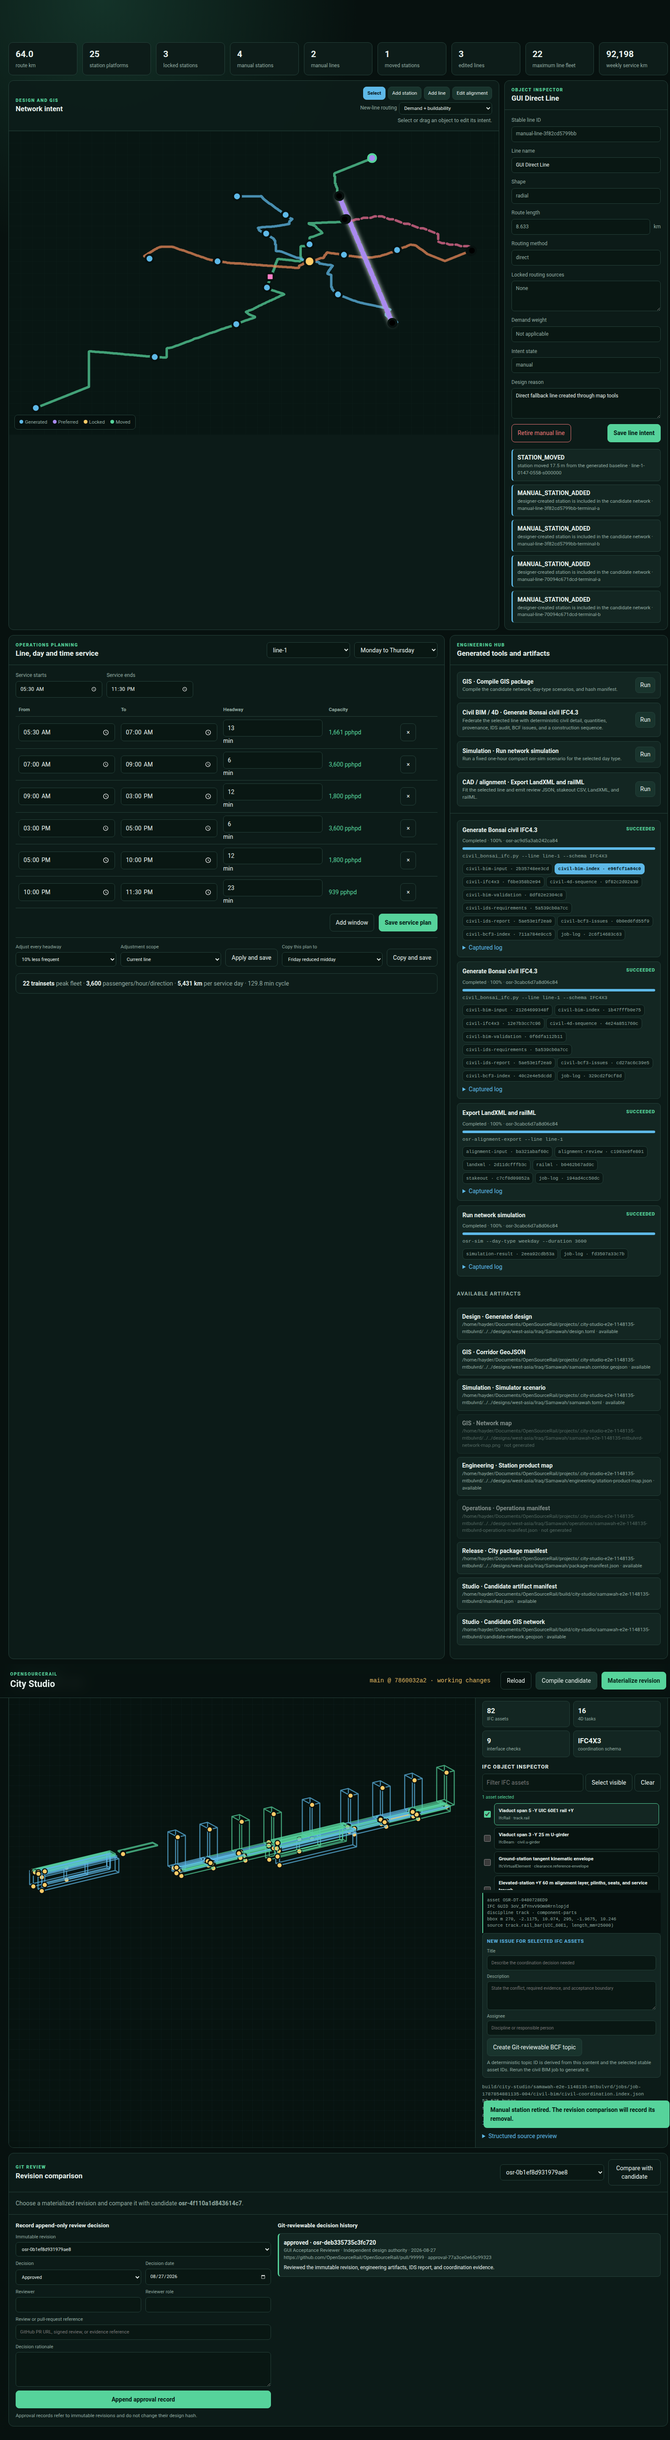
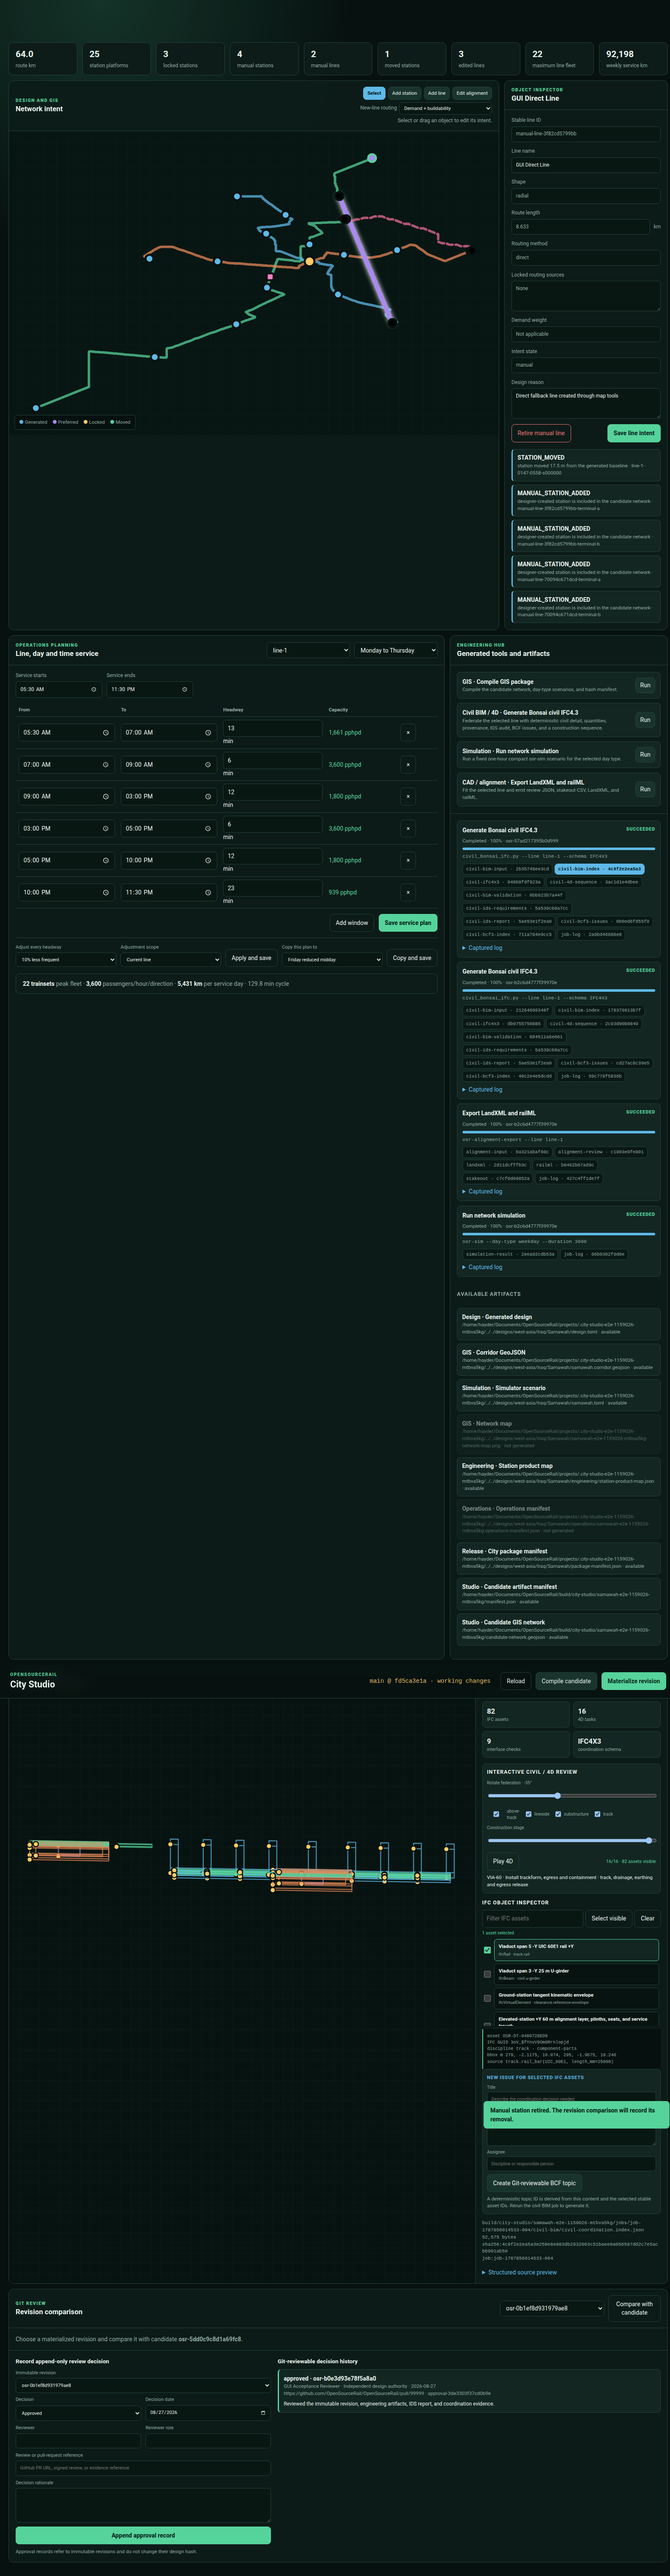
interactive review

diff --git a/crates/osr-city-studio/web/app.js b/crates/osr-city-studio/web/app.js
@@ -81,6 +81,9 @@ let jobView = { adapters: [], jobs: [] };
 let jobPollTimer = null;
 let selectedArtifactPreview = null;
 let selectedCoordinationAssetIds = new Set();
+let selectedCivilSequence = null;
+let civilPlaybackTimer = null;
+let civilReviewState = { angle_deg: -35, stage: 0, disciplines: new Set() };
 let operationBusy = false;
 const lineColours = ["#56d39b", "#5eb9e8", "#e88859", "#a98aef", "#e96d95"];
 
@@ -823,7 +826,22 @@ async function openJobArtifact(jobId, index, shouldScroll) {
       || selectedArtifactPreview.job_id !== nextPreview.job_id
       || selectedArtifactPreview.artifact_index !== nextPreview.artifact_index;
     selectedArtifactPreview = nextPreview;
-    if (changed) selectedCoordinationAssetIds.clear();
+    if (changed) {
+      selectedCoordinationAssetIds.clear();
+      stopCivilPlayback();
+      selectedCivilSequence = null;
+      if (nextPreview.format === "json" && nextPreview.content.schema === "org.opensourcerail.bonsai-civil-ifc.v1") {
+        const job = jobView.jobs.find((item) => item.id === jobId);
+        const sequenceIndex = job?.artifacts.findIndex((item) => item.kind === "civil-4d-sequence") ?? -1;
+        if (sequenceIndex >= 0) selectedCivilSequence = await api.jobArtifact(jobId, sequenceIndex);
+        const disciplines = Object.keys(nextPreview.content.summary?.disciplines || {});
+        civilReviewState = {
+          angle_deg: -35,
+          stage: selectedCivilSequence?.content?.tasks?.length || 0,
+          disciplines: new Set(disciplines),
+        };
+      }
+    }
     renderJobs();
     renderArtifactViewer();
     if (shouldScroll) {
@@ -846,6 +864,7 @@ function renderArtifactViewer() {
     $("#artifact-metrics").replaceChildren();
     $("#artifact-objects").replaceChildren();
     $("#artifact-objects").hidden = true;
+    $("#civil-review-controls").hidden = true;
     $("#artifact-provenance").textContent = "";
     $("#artifact-source").hidden = true;
     return;
@@ -860,6 +879,7 @@ function renderArtifactViewer() {
   $("#artifact-metrics").innerHTML = metrics.map(([value, label]) =>
     `<div class="artifact-metric"><strong>${escapeHtml(value)}</strong><span>${escapeHtml(label)}</span></div>`
   ).join("");
+  renderCivilReviewControls(preview);
   renderArtifactObjects(preview);
   $("#artifact-provenance").textContent = `${preview.artifact.path}\n${preview.artifact.size_bytes.toLocaleString()} bytes\nsha256:${preview.artifact.sha256}\njob:${preview.job_id}`;
   const source = typeof preview.content === "string"
@@ -870,6 +890,93 @@ function renderArtifactViewer() {
     ? `${source.slice(0, maximum)}\n\n… browser source preview limited to ${maximum.toLocaleString()} characters`
     : source;
   $("#artifact-source").hidden = false;
+}
+
+function isCivilObjectIndex(preview = selectedArtifactPreview) {
+  return preview?.format === "json"
+    && preview.content?.schema === "org.opensourcerail.bonsai-civil-ifc.v1";
+}
+
+function civilStageAssetIds() {
+  const tasks = selectedCivilSequence?.content?.tasks || [];
+  if (!tasks.length || civilReviewState.stage >= tasks.length) return null;
+  return new Set(tasks
+    .slice(0, civilReviewState.stage)
+    .flatMap((task) => task.assigned_asset_ids || []));
+}
+
+function renderCivilGraphic() {
+  if (!isCivilObjectIndex()) return;
+  const selectedIndex = document.querySelector(".artifact-object-button.selected")?.dataset.objectIndex;
+  const canvas = $("#artifact-canvas");
+  canvas.replaceChildren();
+  const graphic = artifactGraphic(selectedArtifactPreview);
+  $("#artifact-viewer-empty").hidden = graphic.some((group) => group.length > 0);
+  if (graphic.some((group) => group.length > 0)) drawArtifactGraphic(canvas, graphic);
+  if (selectedIndex !== undefined) {
+    canvas.querySelector(`[data-object-index="${CSS.escape(selectedIndex)}"]`)?.classList.add("selected");
+  }
+}
+
+function stopCivilPlayback() {
+  if (civilPlaybackTimer) window.clearInterval(civilPlaybackTimer);
+  civilPlaybackTimer = null;
+}
+
+function renderCivilReviewControls(preview) {
+  const host = $("#civil-review-controls");
+  host.hidden = !isCivilObjectIndex(preview);
+  if (host.hidden) return;
+  const disciplines = Object.keys(preview.content.summary?.disciplines || {});
+  const tasks = selectedCivilSequence?.content?.tasks || [];
+  const stage = Math.min(civilReviewState.stage, tasks.length);
+  const task = stage > 0 ? tasks[stage - 1] : null;
+  const visibleAssets = artifactGraphic(preview).filter((group) => group.length > 0).length;
+  host.innerHTML = `<h3>Interactive civil / 4D review</h3>
+    <label>Rotate federation · ${civilReviewState.angle_deg}°
+      <input id="civil-view-angle" type="range" min="-180" max="180" step="5" value="${civilReviewState.angle_deg}">
+    </label>
+    <div class="civil-discipline-list">${disciplines.map((discipline) => `<label><input type="checkbox" data-civil-discipline="${escapeHtml(discipline)}" ${civilReviewState.disciplines.has(discipline) ? "checked" : ""}>${escapeHtml(discipline)}</label>`).join("")}</div>
+    <label>Construction stage
+      <input id="civil-stage" type="range" min="0" max="${tasks.length}" step="1" value="${stage}" ${tasks.length ? "" : "disabled"}>
+    </label>
+    <div class="civil-stage-actions"><button id="civil-playback" type="button" class="secondary" ${tasks.length ? "" : "disabled"}>${civilPlaybackTimer ? "Pause" : "Play 4D"}</button><span class="civil-stage-label">${stage}/${tasks.length} · ${visibleAssets} assets visible</span></div>
+    <small>${task ? `${escapeHtml(task.id)} · ${escapeHtml(task.title)} · ${escapeHtml(task.qa_hold)}` : "Pre-construction state"}</small>`;
+  host.querySelector("#civil-view-angle").addEventListener("input", (event) => {
+    civilReviewState.angle_deg = Number(event.currentTarget.value);
+    renderCivilGraphic();
+    renderCivilReviewControls(preview);
+  });
+  host.querySelectorAll("[data-civil-discipline]").forEach((checkbox) => {
+    checkbox.addEventListener("change", () => {
+      if (checkbox.checked) civilReviewState.disciplines.add(checkbox.dataset.civilDiscipline);
+      else civilReviewState.disciplines.delete(checkbox.dataset.civilDiscipline);
+      renderCivilGraphic();
+      renderCivilReviewControls(preview);
+    });
+  });
+  host.querySelector("#civil-stage").addEventListener("input", (event) => {
+    stopCivilPlayback();
+    civilReviewState.stage = Number(event.currentTarget.value);
+    renderCivilGraphic();
+    renderCivilReviewControls(preview);
+  });
+  host.querySelector("#civil-playback").addEventListener("click", () => {
+    if (civilPlaybackTimer) {
+      stopCivilPlayback();
+      renderCivilReviewControls(preview);
+      return;
+    }
+    if (civilReviewState.stage >= tasks.length) civilReviewState.stage = 0;
+    civilPlaybackTimer = window.setInterval(() => {
+      civilReviewState.stage += 1;
+      renderCivilGraphic();
+      if (civilReviewState.stage >= tasks.length) stopCivilPlayback();
+      renderCivilReviewControls(preview);
+    }, 650);
+    renderCivilGraphic();
+    renderCivilReviewControls(preview);
+  });
 }
 
 function artifactGraphic(preview) {
@@ -892,8 +999,18 @@ function artifactGraphic(preview) {
     return points.length ? [points] : [];
   }
   if (preview.format === "json" && content.schema === "org.opensourcerail.bonsai-civil-ifc.v1") {
-    const iso = ([x, y, z]) => [Number(x) - Number(y) * .7, Number(x) * .24 + Number(y) * .38 - Number(z) * 2.4];
+    const angle = civilReviewState.angle_deg * Math.PI / 180;
+    const cos = Math.cos(angle);
+    const sin = Math.sin(angle);
+    const stageAssets = civilStageAssetIds();
+    const iso = ([x, y, z]) => {
+      const rotatedX = Number(x) * cos - Number(y) * sin;
+      const rotatedY = Number(x) * sin + Number(y) * cos;
+      return [rotatedX - rotatedY * .7, rotatedX * .24 + rotatedY * .38 - Number(z) * 2.4];
+    };
     return (content.objects || []).map((item) => {
+      if (!civilReviewState.disciplines.has(item.discipline)) return [];
+      if (stageAssets && !stageAssets.has(item.asset_id)) return [];
       const box = item.bbox_m;
       if (!Array.isArray(box) || box.length !== 6) return [];
       const corners = [
@@ -903,7 +1020,7 @@ function artifactGraphic(preview) {
         [box[3], box[4], box[5]], [box[0], box[4], box[5]],
       ].map(iso);
       return [0, 1, 2, 3, 0, 4, 5, 1, 5, 6, 2, 6, 7, 3, 7, 4].map((index) => corners[index]);
-    }).filter((points) => points.length);
+    });
   }
   if (preview.format === "landxml") {
     const xml = new DOMParser().parseFromString(content, "application/xml");
@@ -946,6 +1063,7 @@ function drawArtifactGraphic(svg, groups) {
     if (civilObjects) {
       path.classList.add("inspectable");
       path.dataset.objectIndex = groupIndex;
+      path.dataset.discipline = selectedArtifactPreview.content.objects[groupIndex]?.discipline || "unknown";
       path.addEventListener("click", () => selectArtifactObject(groupIndex));
     }
     path.setAttribute("d", group.map((point, index) => {

diff --git a/crates/osr-city-studio/web/app.css b/crates/osr-city-studio/web/app.css
@@ -251,6 +251,10 @@ td.capacity { color: var(--accent); font-variant-numeric: tabular-nums; }
 .artifact-preview-line:nth-child(2n) { stroke: var(--accent); }
 .artifact-preview-line.inspectable { cursor: pointer; stroke-width: 2; opacity: .72; transition: opacity .15s, stroke-width .15s; }
 .artifact-preview-line.inspectable:hover, .artifact-preview-line.selected { opacity: 1; stroke-width: 5; stroke: var(--locked); }
+.artifact-preview-line[data-discipline="track"] { stroke: #56d39b; }
+.artifact-preview-line[data-discipline="substructure"] { stroke: #5eb9e8; }
+.artifact-preview-line[data-discipline="above-track"] { stroke: #e88859; }
+.artifact-preview-line[data-discipline="lineside"] { stroke: #a98aef; }
 .artifact-preview-point { fill: var(--locked); stroke: #07110f; stroke-width: 2; }
 .artifact-inspector { padding: 1rem; display: grid; align-content: start; gap: .85rem; min-width: 0; }
 .artifact-metrics { display: grid; grid-template-columns: repeat(2, minmax(0, 1fr)); gap: .5rem; }
@@ -258,6 +262,14 @@ td.capacity { color: var(--accent); font-variant-numeric: tabular-nums; }
 .artifact-metric strong, .artifact-metric span { display: block; }
 .artifact-metric strong { font-size: 1.05rem; color: var(--text); overflow-wrap: anywhere; }
 .artifact-metric span { color: var(--muted); font-size: .68rem; }
+.civil-review-controls { display: grid; gap: .55rem; padding: .65rem; border: 1px solid var(--line); border-radius: 8px; background: var(--panel-raised); }
+.civil-review-controls[hidden] { display: none; }
+.civil-review-controls h3 { margin: 0; color: var(--text); font-size: .78rem; text-transform: uppercase; letter-spacing: .08em; }
+.civil-review-controls label { display: grid; gap: .2rem; color: var(--muted); font-size: .65rem; }
+.civil-discipline-list { display: flex; flex-wrap: wrap; gap: .35rem .65rem; }
+.civil-discipline-list label { display: flex; align-items: center; gap: .25rem; }
+.civil-stage-actions { display: flex; align-items: center; justify-content: space-between; gap: .5rem; }
+.civil-stage-label { color: var(--accent); font-size: .68rem; }
 .artifact-objects { min-width: 0; }
 .artifact-objects h3 { margin: 0 0 .45rem; color: var(--text); font-size: .78rem; text-transform: uppercase; letter-spacing: .08em; }
 .artifact-object-list { display: grid; gap: .35rem; max-height: 205px; overflow: auto; padding-right: .25rem; }

diff --git a/crates/osr-city-studio/web/index.html b/crates/osr-city-studio/web/index.html
@@ -218,6 +218,7 @@
         </div>
         <aside class="artifact-inspector">
           <div id="artifact-metrics" class="artifact-metrics"></div>
+          <div id="civil-review-controls" class="civil-review-controls" hidden></div>
           <div id="artifact-objects" class="artifact-objects" hidden></div>
           <p id="artifact-provenance" class="artifact-provenance"></p>
           <details id="artifact-source" hidden>

diff --git a/docs/ROADMAP.md b/docs/ROADMAP.md
@@ -17,7 +17,7 @@ the [engineering design and simulation plan](engineering-design-simulation-plan.
 | Custom-board release artifacts | KiCad capture, gerbers, board BOMs, DFM review, and assembly drawings only for deployments that choose OSR-specific carrier, power, safety-I/O, or sensor-interface boards |
 | DIY deployment path | Prebuilt SD-card images, checksums, role-specific self-test evidence, and first external build feedback |
 | Software integration | RFC 0017 signed-message verification on the live consensus receive path, TSN transport maturation, CBM backend, and GUI live-data paths |
-| City Studio | Git-backed city projects, source locks, complete manual line/station/alignment authoring, semantic revision comparison including BCF decisions, editable service for generated/manual routes, atomic all-route day-type headway scenarios and day-plan copying, deterministic manifests, source-locked demand-aware alternatives, controlled GIS/simulation/alignment/IFC4.3 civil jobs, hash-verified GIS/alignment/IFC object/IDS/BCF evidence viewers, searchable multi-asset deterministic BCF topic authoring, evidence-gated coordination management, append-only non-circular revision approvals, and browser/restart persistence acceptance (implemented); native 3D BIM streaming and demand/OD records next |
+| City Studio | Git-backed city projects, source locks, complete manual line/station/alignment authoring, semantic revision comparison including BCF decisions, editable service for generated/manual routes, atomic all-route day-type headway scenarios and day-plan copying, deterministic manifests, source-locked demand-aware alternatives, controlled GIS/simulation/alignment/IFC4.3 civil jobs, hash-verified GIS/alignment/IFC object/IDS/BCF evidence viewers, interactive discipline-filtered 4D envelope playback, searchable multi-asset deterministic BCF topic authoring, evidence-gated coordination management, append-only non-circular revision approvals, and browser/restart persistence acceptance (implemented); native tessellated IFC geometry streaming and demand/OD records next |
 | Certification evidence | Residual-risk narrative, independent-assessor review notes, first-article field-evidence plan, and traceability updates |
 | Civil/station package | Survey-grade Samawah alignment replacement, per-span checks, station archetype variants, and deployment-specific assumptions |
 

diff --git a/docs/city-studio/README.md b/docs/city-studio/README.md
@@ -24,7 +24,7 @@ The controlling design decision is
 
 ![City Studio creating a deterministic BCF topic from a selected IFC asset](../screenshots/city-studio/ifc-bcf-topic-authoring.png)
 
-![Browser-tested complete City Studio with bulk service controls and multi-asset IFC selection](../screenshots/city-studio/gui-acceptance.png)
+![Browser-tested complete City Studio with bulk service controls, interactive civil 4D review, approval history, and multi-asset IFC selection](../screenshots/city-studio/gui-acceptance.png)
 
 ## Run
 
@@ -134,6 +134,9 @@ Implemented:
   snapshots, and captured logs;
 - searchable IFC asset inspection and deterministic coordination topics that
   can select several civil assets in one issue;
+- hash-verified 4D sequence loading alongside the IFC object index, with
+  federation rotation, per-discipline visibility, stage scrubbing/playback,
+  and task/QA-hold context;
 - visibility of existing GIS, engineering, simulation, operations, and release
   artifacts.
 
@@ -222,6 +225,14 @@ directly. Individual civil objects expose their stable ID, IFC GUID, class,
 discipline, bounds, detail mode, and source. IDS specifications and BCF topics
 have selectable audit/issue cards; IFC STEP, IDS XML, BCF containers, and JSON
 also receive format-specific metrics and a bounded structured-source preview.
+
+When the civil object index is selected, City Studio also loads the companion
+`civil-4d-sequence` through the same SHA-256-verifying artifact endpoint. The
+reviewer can rotate the projected federation, isolate track, substructure,
+above-track, or lineside disciplines, scrub the construction task sequence, or
+play it automatically. The current task title and QA hold are shown beside the
+visible-asset count. This is an interactive coordination view of deterministic
+object envelopes; Bonsai remains the native IFC geometry/detail environment.
 
 BCF review decisions are written to
 `projects/<slug>/coordination/issues.toml`, not into the selected job artifact.

diff --git a/docs/rfcs/0031-city-studio-git-revisions.md b/docs/rfcs/0031-city-studio-git-revisions.md
@@ -231,8 +231,11 @@ artifact endpoint canonicalizes the selected record path beneath the City
 Studio build root, limits preview size, accepts only known JSON/XML/CSV/text
 formats, and verifies the recorded SHA-256 before returning content. The GUI
 plots GeoJSON, local alignment points, LandXML geometry, and stakeout data and
-summarizes railML and simulator evidence without making those previews an
-authoritative CAD or safety-assurance tool.
+summarizes railML and simulator evidence. For civil review it joins the
+verified object index and 4D sequence to provide deterministic envelope
+rotation, discipline visibility, construction-stage playback, task/QA context,
+and stable BCF object picking. These previews are not an authoritative CAD or
+safety-assurance tool; native IFC detail remains in Bonsai.
 
 ## 8. GitHub review policy
 
@@ -294,6 +297,8 @@ The Samawah project is the first committed acceptance fixture. It:
   generated BCF without mutating prior job evidence;
 - creates deterministic custom BCF topics from selected IFC assets and rejects
   duplicate content, invalid asset IDs, and dangling selections;
+- loads the hash-verified civil 4D sequence with discipline filters, rotation,
+  task-stage playback, and stable object selection;
 - appends deterministic approval decisions only for existing immutable
   revisions and proves that approval does not alter the design hash;
 - emits separate weekday, Friday, and weekend simulator scenarios plus a

diff --git a/README.md b/README.md
@@ -153,7 +153,7 @@ simulation, alignment exchange, IFC4.3/Bonsai civil federation, verified
 GIS/engineering object inspection, IDS delivery audit, BCF 3.0 issue review,
 searchable multi-asset BCF topic authoring, atomic all-route headway scenarios and day-plan tools,
 Git-reviewable coordination decisions, append-only revision approvals,
-artifact hashing, and revision review.
+hash-verified interactive civil/4D review, artifact hashing, and revision review.
 
 ![City Studio network authoring and demand-aware routing interface](docs/screenshots/city-studio/network-and-service.png)
 
@@ -167,7 +167,7 @@ artifact hashing, and revision review.
 
 ![City Studio creating a deterministic BCF topic from a selected IFC asset](docs/screenshots/city-studio/ifc-bcf-topic-authoring.png)
 
-![Browser-tested City Studio network, bulk service planning, engineering jobs, and multi-asset IFC inspector](docs/screenshots/city-studio/gui-acceptance.png)
+![Browser-tested City Studio network, bulk service planning, interactive civil 4D review, approvals, and multi-asset IFC inspector](docs/screenshots/city-studio/gui-acceptance.png)
 
 Run it locally with `cargo run -p osr-city-studio -- serve`, then open
 <http://127.0.0.1:8090/>. See the

diff --git a/docs/civil/bonsai-ifc-workflow.md b/docs/civil/bonsai-ifc-workflow.md
@@ -113,6 +113,13 @@ City Studio exposes the requirement report and issue index alongside the IFC.
 Bonsai can open the native BCF package for discipline coordination and issue
 closure against the same stable objects.
 
+City Studio also pairs the object index with the hash-verified construction
+sequence. Its interactive review controls rotate the projected federation,
+toggle civil disciplines, and scrub or play the 16-task 4D sequence while
+showing the current QA hold and visible-asset count. These projected envelopes
+support rapid coordination and BCF selection; native tessellated geometry and
+authoritative IFC editing remain in Bonsai.
+
 City Studio stores a review decision in the project's committed
 `coordination/issues.toml`. It never rewrites a prior BCF artifact. Closing or
 resolving a topic requires both resolution evidence and a reviewer; the next

diff --git a/crates/osr-city-studio/README.md b/crates/osr-city-studio/README.md
@@ -26,6 +26,9 @@ The integrated evidence viewer
 re-verifies each hash before plotting GeoJSON, alignment JSON, civil IFC object
 envelopes with object picking, IDS specifications, BCF topics, LandXML, railML,
 stakeout CSV, or simulation results.
+The civil viewer joins the verified IFC object index with its verified 4D task
+sequence, supporting view rotation, discipline visibility, construction-stage
+scrubbing/playback, task/QA-hold context, and stable object picking for BCF.
 
 BCF decisions are saved to project intent and included in Git revision hashes;
 immutable job evidence is never edited in place. Resolution and closure require
